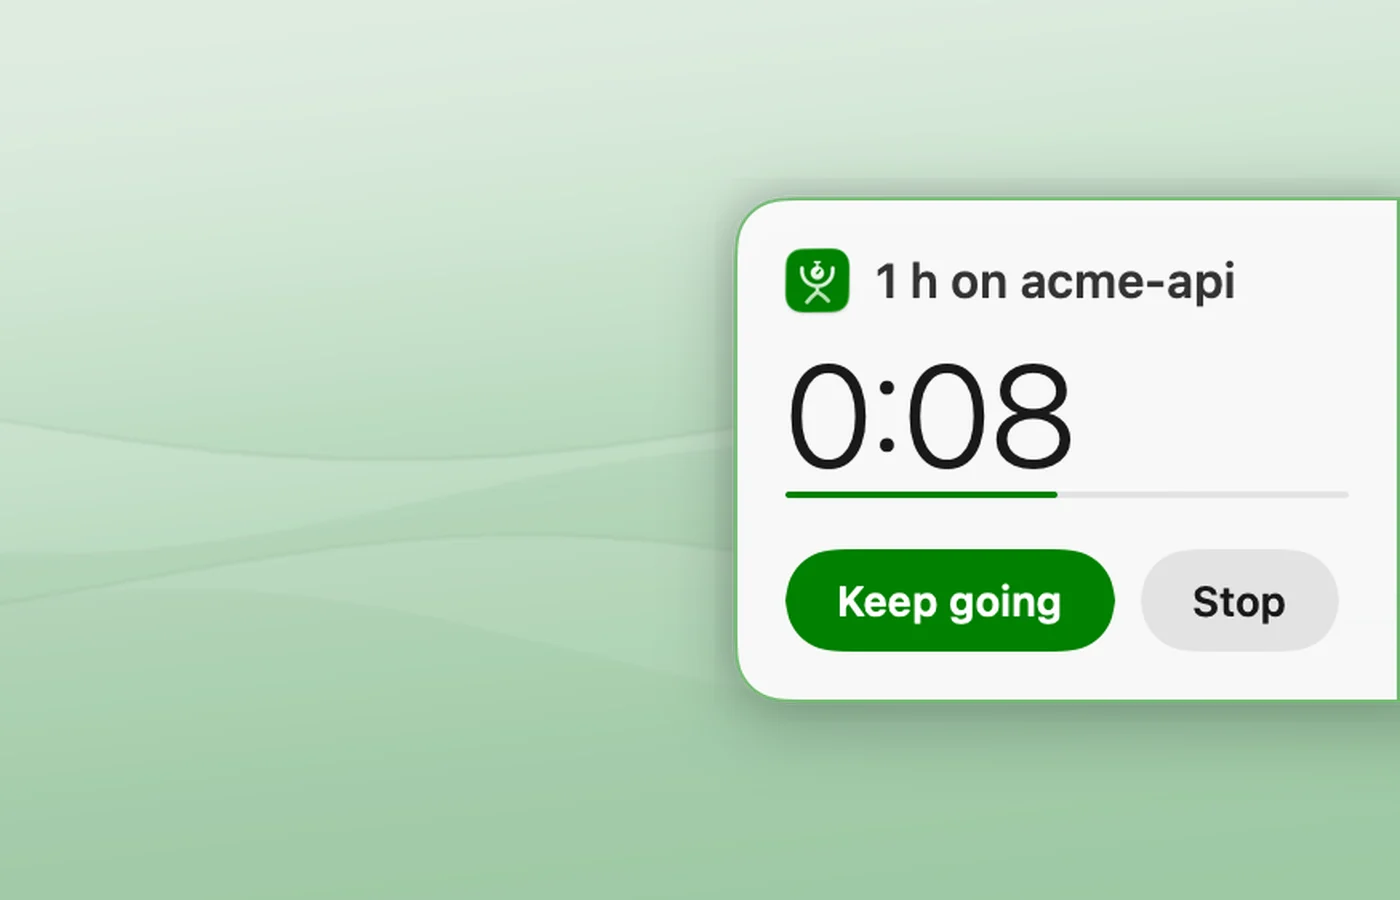
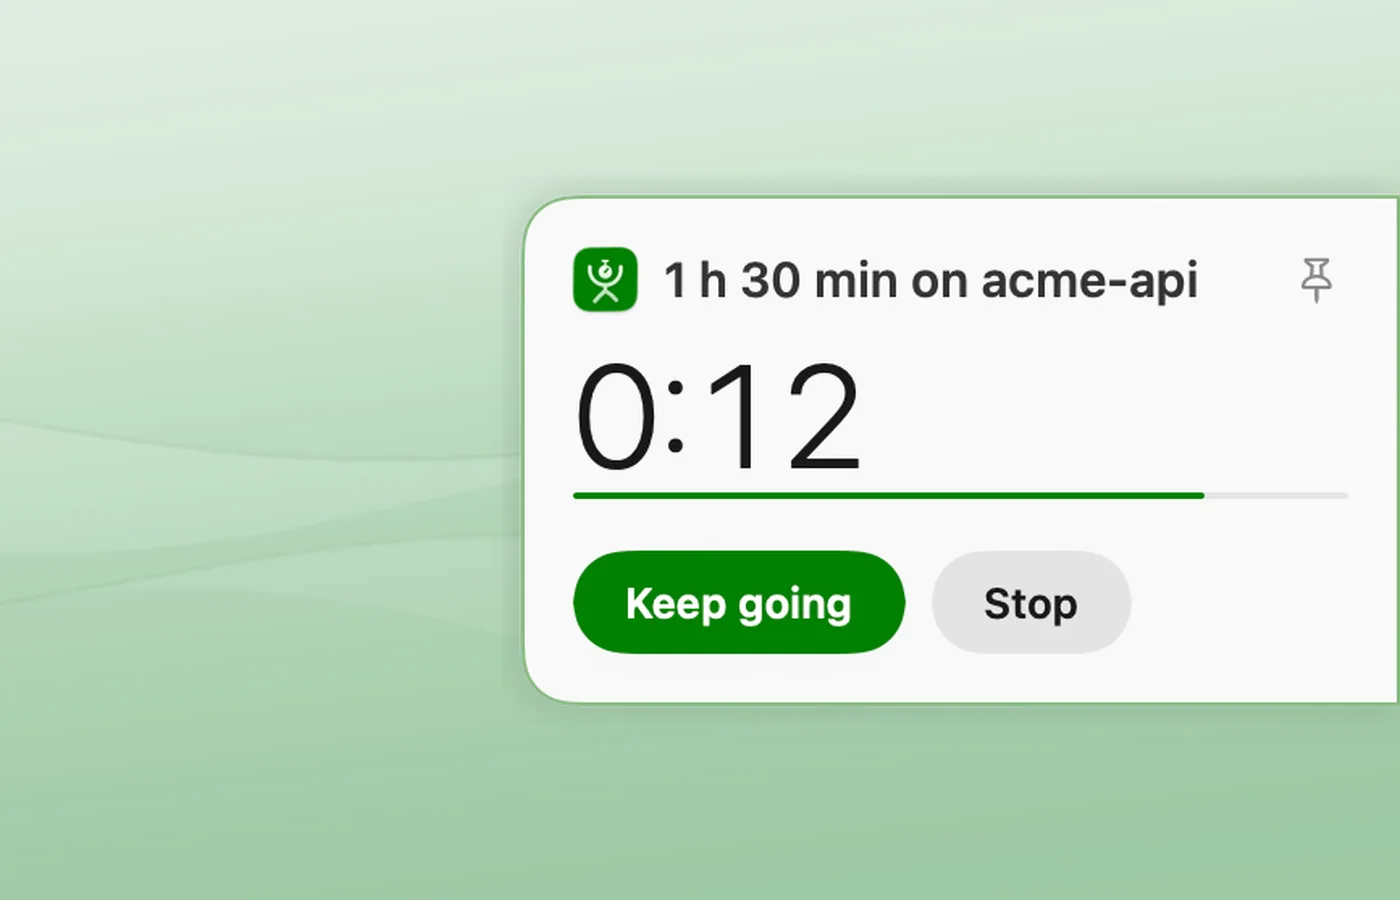
Glyph Time page: Mac shots from 0.1.5
Running, nudge, countdown and settings retaken from Glyph Time 0.1.5: the
open card's pin, and the new Control Option M row in Settings. Alt text
matches what each shot shows.

Claude-Session: https://claude.ai/code/session_012sxS4fLdJXLuRbJj2wa2yC

Changed region(s): [[0.3686, 0.1867, 1.0, 0.8089], [0.8293, 0.6533, 0.9214, 0.6844], [0.9214, 0.28, 0.9521, 0.3422]]

diff --git a/docs/time/index.html b/docs/time/index.html
@@ -98,10 +98,10 @@
     <div class="seg dev" role="group" aria-label="Device"><button type="button" aria-selected="true" data-d="mac"><svg viewBox="0 0 24 24" fill="none" stroke="currentColor" stroke-width="2" stroke-linecap="round" stroke-linejoin="round" aria-hidden="true"><rect x="3" y="4" width="18" height="12" rx="2"/><path d="M1 20h22"/></svg>Mac</button><button type="button" aria-selected="false" data-d="iphone"><svg viewBox="0 0 24 24" fill="none" stroke="currentColor" stroke-width="2" stroke-linecap="round" stroke-linejoin="round" aria-hidden="true"><rect x="6" y="2" width="12" height="20" rx="3"/><path d="M11 18h2"/></svg>iPhone <small>testing</small></button></div>
     <div class="views fill" data-ar="1.556" aria-live="polite">
       <figure class="view on" data-k="closed" data-d="mac" style="margin:0"><img class="shot" src="/time/closed.webp" width="1400" height="900" alt="Closed: only the Runner tile rests on the right edge of the screen" fetchpriority="high"></figure>
-      <figure class="view" data-k="running" data-d="mac" style="margin:0"><img class="shot" src="/time/running.webp" width="1400" height="900" alt="A session on acme-api: the clock open on the right edge of the screen at 0:05, with pause, stop and more" loading="lazy"></figure>
-      <figure class="view" data-k="nudge" data-d="mac" style="margin:0"><img class="shot" src="/time/nudge.webp" width="1400" height="900" alt="The half-hour nudge: 1 h on acme-api, with Keep going and Stop" loading="lazy"></figure>
+      <figure class="view" data-k="running" data-d="mac" style="margin:0"><img class="shot" src="/time/running.webp" width="1400" height="900" alt="A session on acme-api: the clock open on the right edge of the screen at 0:09, with pause, stop and more, and a pin to keep it open" loading="lazy"></figure>
+      <figure class="view" data-k="nudge" data-d="mac" style="margin:0"><img class="shot" src="/time/nudge.webp" width="1400" height="900" alt="The half-hour nudge: 1 h 30 min on acme-api, with Keep going and Stop" loading="lazy"></figure>
       <figure class="view" data-k="countdown" data-d="mac" style="margin:0"><img class="shot" src="/time/countdown.webp" width="1400" height="900" alt="A countdown at zero: Time is up on acme-api, then counting the time over, with Keep going and Stop" loading="lazy"></figure>
-      <figure class="view" data-k="settings" data-d="mac" style="margin:0"><img class="shot" src="/time/settings.webp" width="1400" height="900" alt="Glyph Time settings: nudge every 30 minutes, pause when away for 5 minutes, sessions saved to a vault folder, and switches to show it in the Dock and the menu bar" loading="lazy"></figure>
+      <figure class="view" data-k="settings" data-d="mac" style="margin:0"><img class="shot" src="/time/settings.webp" width="1400" height="900" alt="Glyph Time settings: nudge every 30 minutes, pause when away for 5 minutes, sessions saved to a vault folder, and switches to show it in the Dock and the menu bar, and shortcuts: Control Option T to start or pause, Control Option M to minimize or keep open" loading="lazy"></figure>
       <figure class="view" data-k="iphone" data-d="iphone" style="margin:0"><img class="phone" src="/time/iphone-today-1.webp" width="506" height="1100" alt="Glyph Time in the Glyph app on iPhone: Northwind running at 1:05, over today's totals by project" loading="lazy"><img class="phone" src="/time/iphone-today-2.webp" width="506" height="1100" alt="Countdowns of 5, 15, 25 and 50 minutes, today's 4 h 19 min by project, and the alarms and reminders" loading="lazy"></figure>
       <figure class="view" data-k="alarms" data-d="iphone" style="margin:0"><img class="phone" src="/time/iphone-alarms-1.webp" width="506" height="1100" alt="Alarms and reminders on iPhone: Gym, Call Sam about the lease, Early flight, Dentist and more" loading="lazy"><img class="phone" src="/time/iphone-alarms-2.webp" width="506" height="1100" alt="A new alarm on iPhone: Stretch, with its day and time" loading="lazy"></figure>
     </div>
